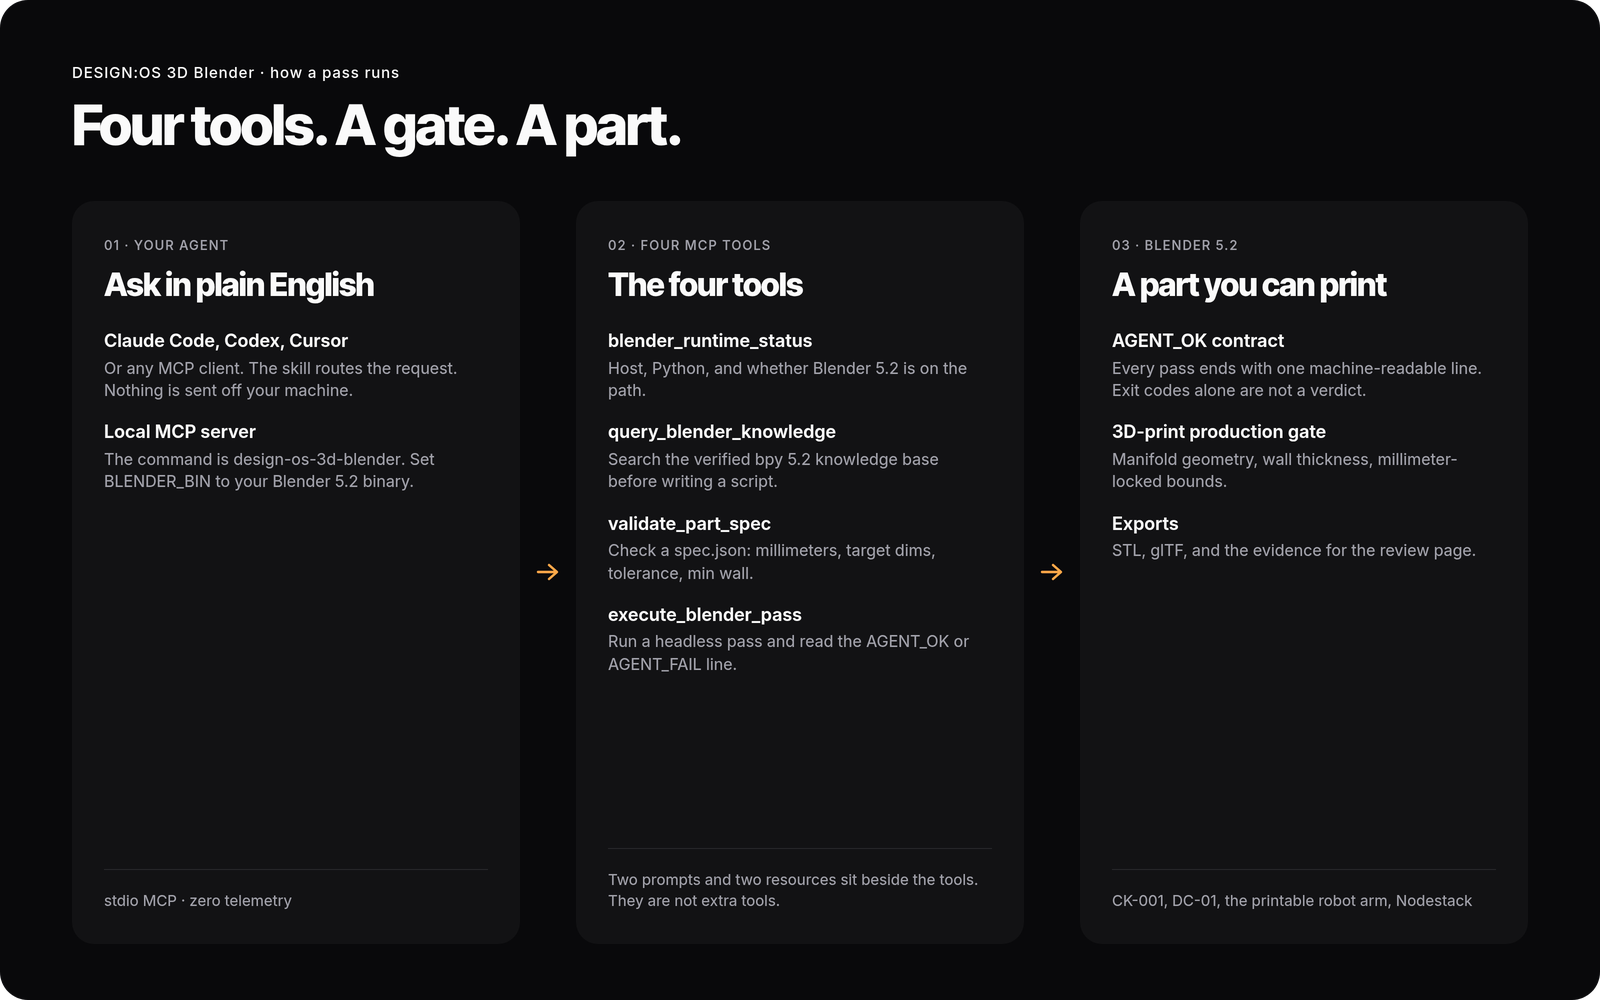
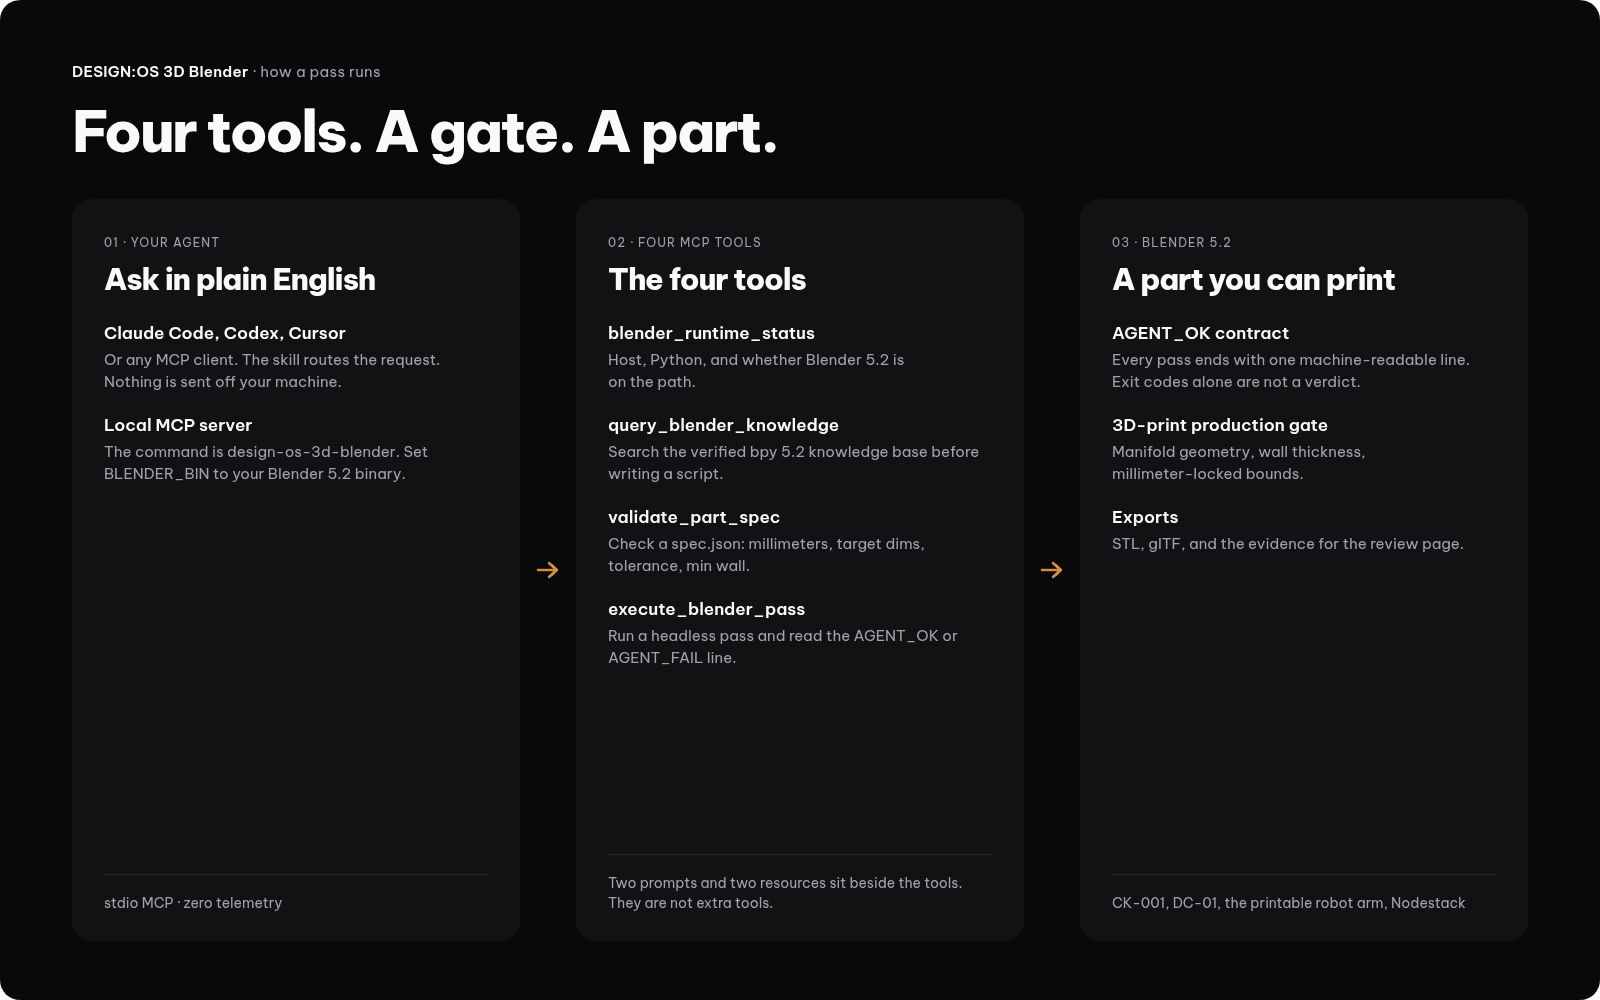
docs: re-render README assets in Be Vietnam Pro

diff --git a/docs/images/readme/PROVENANCE.md b/docs/images/readme/PROVENANCE.md
@@ -10,11 +10,11 @@
 ## Covers, flow diagrams, and social preview
 
 - Files: `cover-dark.png`, `cover-light.png`, `flow-dark.png`, `flow-light.png`, `social-preview.png`
-- Made on 2026-11-12 for the README refresh. HTML and Inter / Inter Tight, rendered in Chrome, then scaled to the sizes in the design standard (cover 1600 times 720, flow 1600 times 1000, social 1280 times 640).
+- Made on 2026-11-12 for the README refresh. HTML in Be Vietnam Pro (400, 600, 800), re-rendered on 2026-11-16 to match the DESIGN:OS family font, rendered in Chrome at the sizes in the design standard (cover 1600 times 720, flow 1600 times 1000, social 1280 times 640), then quantised to an indexed palette.
 - Colour: monochrome plus one orange accent `#fca849`. Background `#09090b` (dark) and `#f4f4f5` (light). The clay mark is the only orange form.
 - Alt and caption, where used: exactly `design:os by Jang`.
 - No Figma logo, no third-party kit, no private data, no invented metrics.
-- Cover and flow files are a little over 150 KB because they carry the photographic clay mark at 2x type. Social previews are under 150 KB.
+- Every PNG is under 150 KB.
 
 ## Real builds (`builds/`)
 
